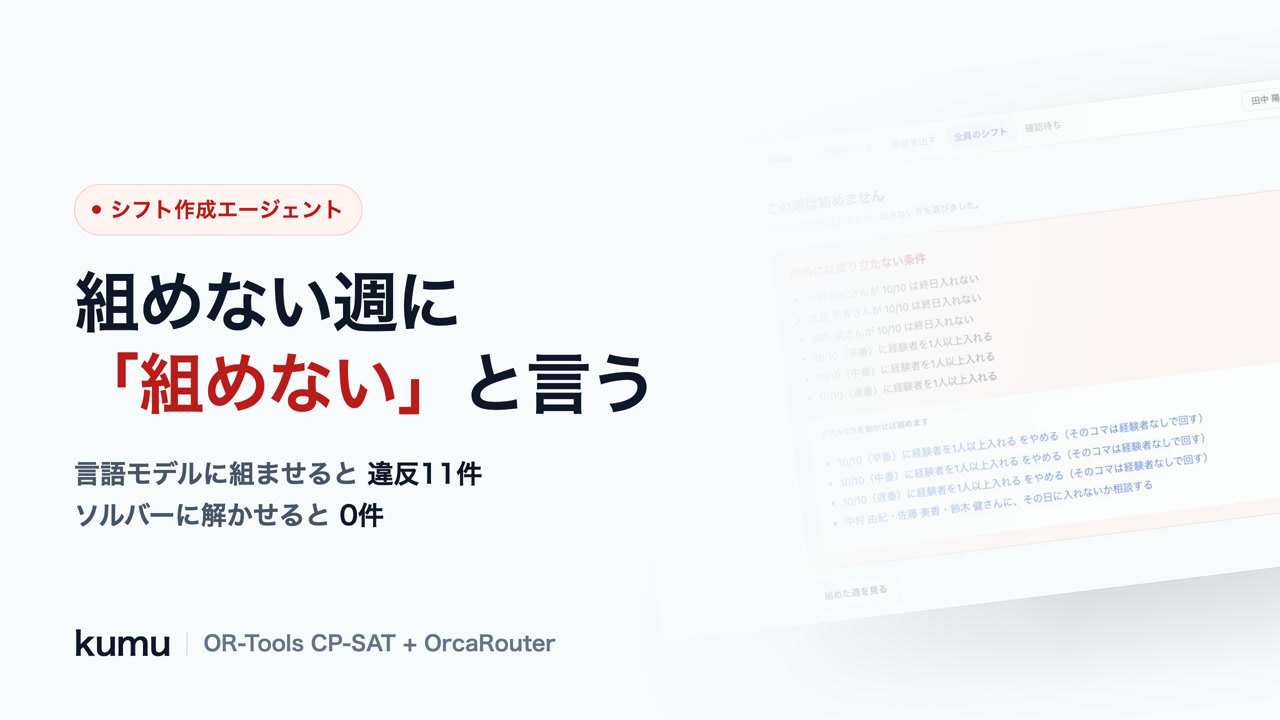
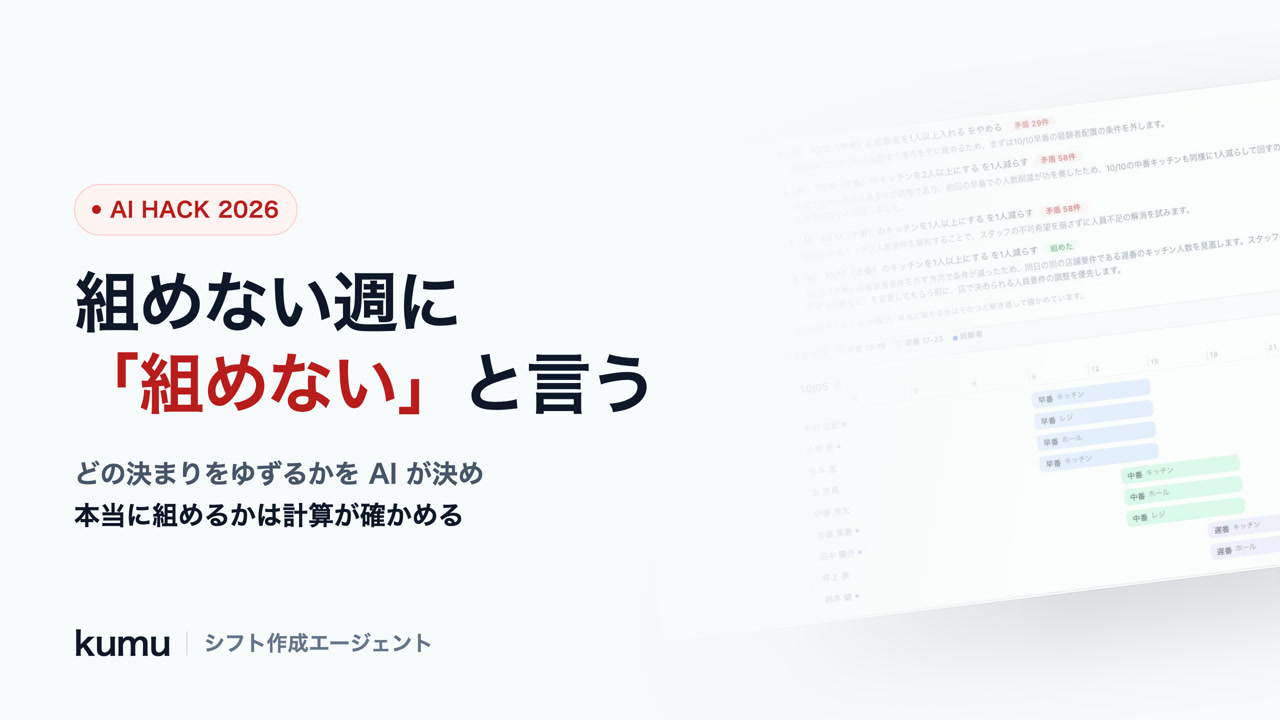
サムネイルと公開用の文面を、AIの役割が伝わる形に直した
サムネイルの副題が「ソルバーに解かせると0件」のままだった。
伝わらない言葉であるうえ、AI作品として何をしているのかも出ていない。
「どの決まりをゆずるかを AI が決め、本当に組めるかは計算が確かめる」に
変えて、背景も AI の判断画面にした。

説明文も、線引きの話を中心に据え直した。

diff --git a/docs/youtube.md b/docs/youtube.md
@@ -5,19 +5,19 @@
 **推奨**
 
 ```
-「組めない」と言うシフト作成AIを作った — LLMに組ませると違反11件、ソルバーなら0件
+シフトが組めない週に「組めない」と言うAIを作った — ゆずる条件はAIが決め、組めるかは計算が確かめる
 ```
 
-前半20字に「組めないと言うシフト作成AI」が収まるので、スマホで切れても意味が通る。
+前半で「組めないと言うAI」まで読めるので、スマホで末尾が切れても意味が通る。
 
 **別案**
 
 ```
-LLMにシフトは組めるのか 同じ条件で6回測ったら違反0〜11件だった
+AIに何を任せて、何を任せないか — シフト作成エージェント kumu
 ```
 
 ```
-組めない週に「組めない」と言うシフト作成AI｜kumu
+「ここで止める」と言えるAIを作った｜シフト作成エージェント kumu
 ```
 
 ---
@@ -25,30 +25,33 @@ LLMにシフトは組めるのか 同じ条件で6回測ったら違反0〜11件
 ## 説明文
 
 ```
-飲食店のシフトを組むエージェント「kumu」のデモです。
-どう組んでも人が足りない週には、シフトを出さずに「組めません」と返します。
+飲食店のシフトを作るAI「kumu」のデモです。
+どう並べても人が足りない週には、シフトを出さずに「組めません」と返します。
 
-作りはじめたときは「言語モデルにシフトは作れない」と考えていました。
-測ったら間違いで、6回のうち2回は制約違反ゼロで組めています。
-ただし同じモデル・同じ条件でも、1回目は違反11件、3回目は1件。
-守れているかどうかは、出してみるまで分かりません。
-希望をどれだけ通せたかは、モデルが42〜53%に対してソルバーが70%でした。
+この作品の中心は、AIに何を任せて、何を任せないかの線引きです。
+
+並べ方そのものを探す仕事はAIに向いていないので、パズルを解く専用の計算にやらせています。
+かわりにAIには、決まりでは書けない仕事を任せました。人が書いた文章を読むこと、
+組めなかったときにどの決まりからゆずるかを決めること、希望欄に混ざった攻撃を見つけること。
+どれも毎回中身が違うので、決まりとして先に書いておけません。
+
+AIが決めたことは、そのまま実行しません。言ったことが本当かは計算が確かめ、
+やってよいかは店長が決めます。AIは「ここで止める」とも言えます。
 
 章立て
-0:00 希望を出す（1時間刻みのドラッグと予想給与）
-0:13 全員のシフト
-0:29 組めない週
-0:58 確認待ち（希望欄に混ざった指示文）
-1:23 自分のシフト
-1:31 代われる人を探す
+0:00 希望を出す
+0:12 全員のシフト
+0:36 組めない週
+0:56 AIがゆずる条件を決める
+1:37 確認待ち（希望欄に混ざった指示文）
+2:03 自分のシフト
+2:09 代われる人を探す
 
-仕組み
-割り当てを解くのは OR-Tools の CP-SAT で、言語モデルは自然言語の読み取りだけに使っています。
-組めないときは、同時に成り立たない条件を返します。CP-SAT が返す集合は最小ではないので、
-110件を12件まで絞っています。
-「なぜ自分の希望が通らなかったか」は文章を生成しません。その希望を必ず通す条件で解き直して、
-何と入れ替わるかを並べます。
-希望欄は本人が自由に書ける場所なので、読み取った結果は候補どまりにして、店長の確認を通します。
+作りはじめたときは「AIにシフトは作れない」と考えていました。
+測ったら間違いで、6回のうち2回は制約違反ゼロで組めています。
+ただし同じ条件でも、1回目は違反11件、3回目は1件。守れているかは出してみるまで分かりません。
+希望をどれだけ通せたかは、AIが42〜53%に対して計算が70%でした。
+この測定が、上の線引きの根拠になっています。
 
 リンク
 GitHub: https://github.com/muroshima/kumu
@@ -65,11 +68,11 @@ OR-Tools CP-SAT / OrcaRouter / Python / Playwright + edge-tts + ffmpeg
 
 ## サムネイル
 
-`docs/thumbnail.png`（2560×1440 / 0.73MB）を使う。YouTube の上限 2MB 以内。
-`docs/thumbnail.jpg` は 1280×720 の軽い版で、記事の先頭画像にも使える。
+`docs/thumbnail.png`（2560×1440 / 2MB以内）。`docs/thumbnail.jpg` は 1280×720 の軽い版で、
+記事の先頭画像にも使える。
 
 ## 公開設定のメモ
 
 - 「子ども向けではない」を選ぶ
-- 章立ては説明文の先頭ブロックに 0:00 から連続で書いてあるので、そのまま章として認識される
-- 限定公開にするなら、記事からのリンクは有効なまま残る
+- 章立ては 0:00 から連続で書いてあるので、そのまま章として認識される
+- 限定公開にしても、記事からのリンクは有効なまま残る
